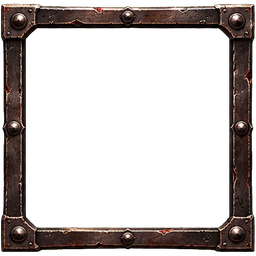
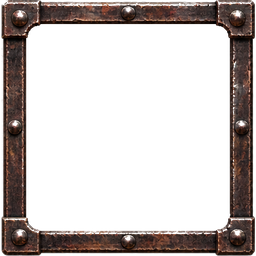
Снаряжение: новые рамки редкости и золотые силуэты пустых ячеек
- Рамки предметов: железная (обычный), стальная (добротный), золотая с
  фиолетовым свечением (редкий), кроваво-золотая с когтями (легендарный).
  Вырезаны из генерации, середина прозрачная. У торговца, в тайнике и сумке.
- Пустые ячейки надетого: полупрозрачный золотой силуэт клинка, цубы,
  облачения, маски, амулета, тыквы.

Claude-Session: https://claude.ai/code/session_01T1TvTKEmq5UwoYPTycnMDC

Changed region(s): [[0.0, 0.0, 1.0, 1.0]]

diff --git a/Assets/_Project/Scripts/Game/InventoryScreen.cs b/Assets/_Project/Scripts/Game/InventoryScreen.cs
@@ -97,7 +97,8 @@ namespace BladePath
                 }
                 if (Profile.IsEquipped(it)) UiKit.Disc(new Vector2(r.x + 8f, r.y + 8f), 4f, Gold);
             }
-            Texture2D sh = rar >= 3 ? UiKit.Tex("UI/shine_frame") : null;
+            // рамки редкости (UI/frame_0…3): железо, сталь, золото с фиолетовым, кроваво-золотая с когтями
+            Texture2D sh = rar >= 3 && fr == null ? UiKit.Tex("UI/shine_frame") : null;
             if (sh != null)
             {
                 // легендарное: золотая рамка, по которой время от времени пробегает блик
@@ -370,6 +371,14 @@ namespace BladePath
                 Rect r = new Rect(x, y, 96f, 96f);
                 Item it = Profile.Equipped(s);
                 DrawItem(r, it, it != null && it == sel);
+                // пустая ячейка — золотой силуэт того, что в неё надевается (клинок, цуба, облачение, маска, амулет, тыква)
+                Texture2D sil = it == null && s < 6 ? UiKit.Tex("UI/slot_silhouettes") : null;
+                if (sil != null)
+                {
+                    Color o = GUI.color; GUI.color = new Color(1f, 1f, 1f, 0.34f);
+                    GUI.DrawTextureWithTexCoords(new Rect(r.x + r.width * 0.18f, r.y + r.height * 0.18f, r.width * 0.64f, r.height * 0.64f), sil, new Rect(s / 6f, 0f, 1f / 6f, 1f));
+                    GUI.color = o;
+                }
                 UiKit.Text(new Rect(x - 12f, y + 98f, 120f, 18f), Profile.SlotNames[s], 11f, new Color(0.8f, 0.76f, 0.68f));
                 if (GUI.Button(r, GUIContent.none, GUIStyle.none)) sel = it;
             }
